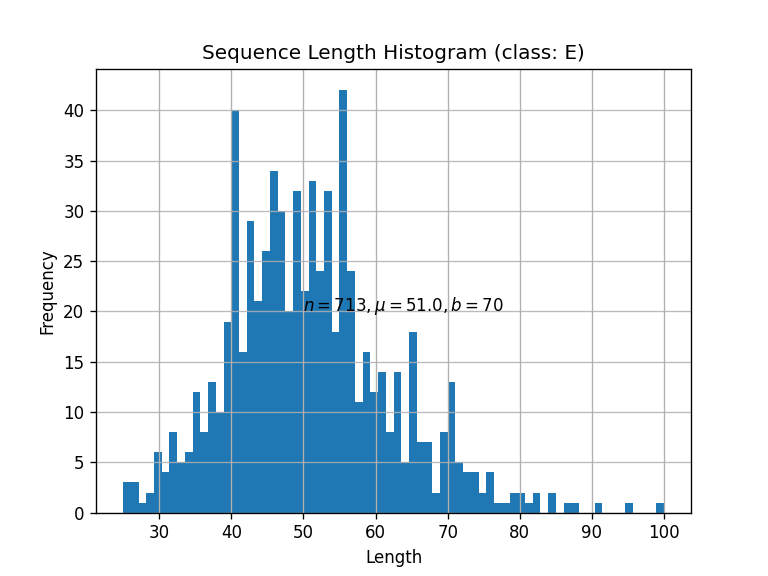
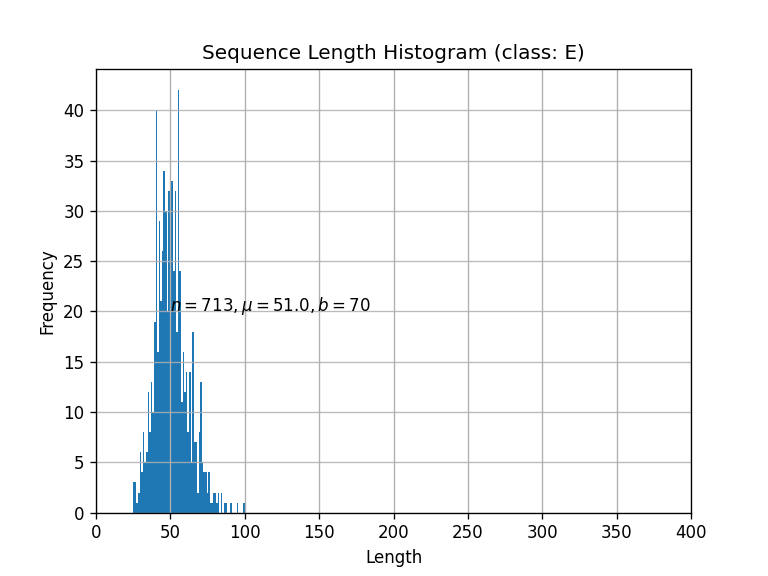
All plots on the same `x` axis range

Changed region(s): [[0.1562, 0.1562, 0.9375, 0.9375], [0.1875, 0.9062, 0.25, 0.9375]]

diff --git a/exerc06/seq-hists/seq-histogram.py b/exerc06/seq-hists/seq-histogram.py
@@ -9,9 +9,12 @@ def do_plot(csv_filename, class_name):
     df = pd.read_csv(csv_filename)
     n = len(df)
     mean = df['length'].mean()
+    min = df['length'].min()
+    max = df['length'].max()
 
     # print(df)
-    print('{}: n={} mean={:.1f}'.format(csv_filename, n, mean))
+    print('{}: n={} mean={:.1f} min={:.1f} max={:.1f}'.format(
+      csv_filename, n, mean, min, max))
 
     df.hist(bins=bins)
     plt.grid(axis='y', alpha=0.85)
@@ -19,6 +22,7 @@ def do_plot(csv_filename, class_name):
     plt.ylabel('Frequency')
     plt.title('Sequence Length Histogram (class: {})'.format(class_name))
     plt.text(50, 20, r'$n={}, \mu={:.1f}, b={}$'.format(n, mean, bins))
+    plt.gca().set_xbound(0, 400)
     # plt.show()
 
     png_filename = '{}-histogram.png'.format(csv_filename)

diff --git a/exerc06/seq-hists/README.md b/exerc06/seq-hists/README.md
@@ -5,9 +5,11 @@ In each of the plots below:
 - `n` is the number of sequences
 - `µ` is the average sequence length
 - `b` is the number of bins
-- Length is given in number of analysis frames.
+- `Length` is given in number of analysis frames.
   With the 15ms window offset, this means that
   100 units in the x axis corresponds to about 1.5secs
+
+All plots on the same `x` axis range to facilitate comparison.
 
 ![](seq-lengths-M2048-A.csv-histogram.png)
 ![](seq-lengths-M2048-Bm.csv-histogram.png)
